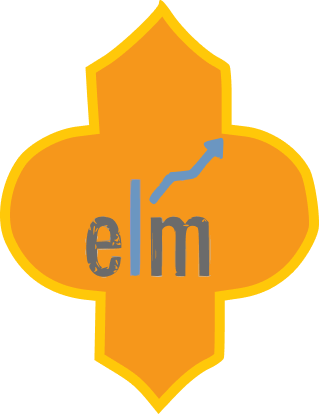
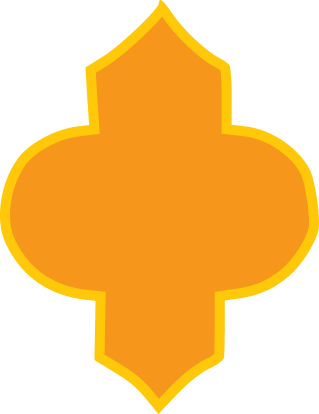
Spons done

Changed region(s): [[0.2539, 0.3188, 0.7053, 0.6957]]

diff --git a/components/Spons.jsx b/components/Spons.jsx
@@ -1,7 +1,7 @@
 import React, { useState, useEffect } from 'react';
 import styles from '../styles/styles.module.css';
 
-function Spons({ name, front_img, back_img, link, number }) {
+function Spons({ name, front_img, back_img, link, title, logo, number }) {
   const [bottom, setBottom] = useState(0);
   const [left, setLeft] = useState(0);
   const [right, setRight] = useState(0);
@@ -69,13 +69,18 @@ function Spons({ name, front_img, back_img, link, number }) {
   if (name.length > 1) {
     return (
       <div className={styles.card} style={(windowSize>=768)?cardStyle:smallCard}>
-        <div className="" style={frontStyle}>
-          <img src={`${front_img}`} alt="" className="w-full" />
+        <div className=" " style={frontStyle}>
+          <img src={`${front_img}`} alt="" className="w-full h-full" />
+          <img src={`${logo}`} alt="404" className=" z-50 -translate-y-48 translate-x-[4.75rem] inline-block w-2/5 absolute top-3/5" />
         </div>
         <div className="" style={backStyle}>
           <a href={`${link}`}>
-            <img src={`${back_img}`} alt="" className="w-full" />
+            <img src={`${back_img}`} alt="" className="w-full h-full" />
           </a>
+          <div className="flex flex-col justify-center align-middle text-center z-50 -translate-y-52 translate-x-[2rem] w-4/5 h-2/5 absolute top-3/5">
+            <h3 className=' w-full text-md'>{title}</h3>
+            <h5 className=' w-full text-[#FFFFFF]'>{name}</h5>
+          </div>
         </div>
       </div>
     );
@@ -83,10 +88,11 @@ function Spons({ name, front_img, back_img, link, number }) {
     return (
       <div className={styles.card} style={(windowSize>=768)?cardStyle:smallCard}>
         <div className="" style={frontStyle}>
-          <img src="/emptySpons.png" alt="" className="w-full" />
+          <img src="/emptySpons.png" alt="" className="w-full h-full" />
+        
         </div>
         <div className="" style={backStyle}>
-          <img src="/emptySpons.png" href="" alt="" className="w-full" />
+          <img src="/emptySpons.png" href="" alt="" className="w-full h-full" />
         </div>
       </div>
     );
